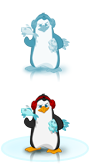
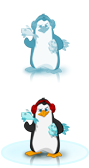
updating character thumb sprites so they don't shit position when highlighted.

diff --git a/client/css/overlays.css b/client/css/overlays.css
@@ -86,7 +86,7 @@
 .choose .nav .chooseArrows.arrowRight { left: 715px; }
 .choose .nav .btnSelect { position: absolute; cursor: pointer; top: 325px; left: 445px; }
 .choose .characters { width: 810px; position: relative; height: 100px; margin-top: 20px; }
-.choose .characters div { float: left; height: 82px; width: 89px; margin-right: 65px; overflow: hidden; }
+.choose .characters div { float: left; height: 84px; width: 89px; margin-right: 65px; overflow: hidden; }
 .choose .characters .yeti { background: url(../img/character-select/yeti.png) no-repeat bottom left; margin-left: 65px; }
 .choose .characters .tree { background: url(../img/character-select/tree.png) no-repeat top left; }
 .choose .characters .penguin { background: url(../img/character-select/penguin.png) no-repeat top left; }
